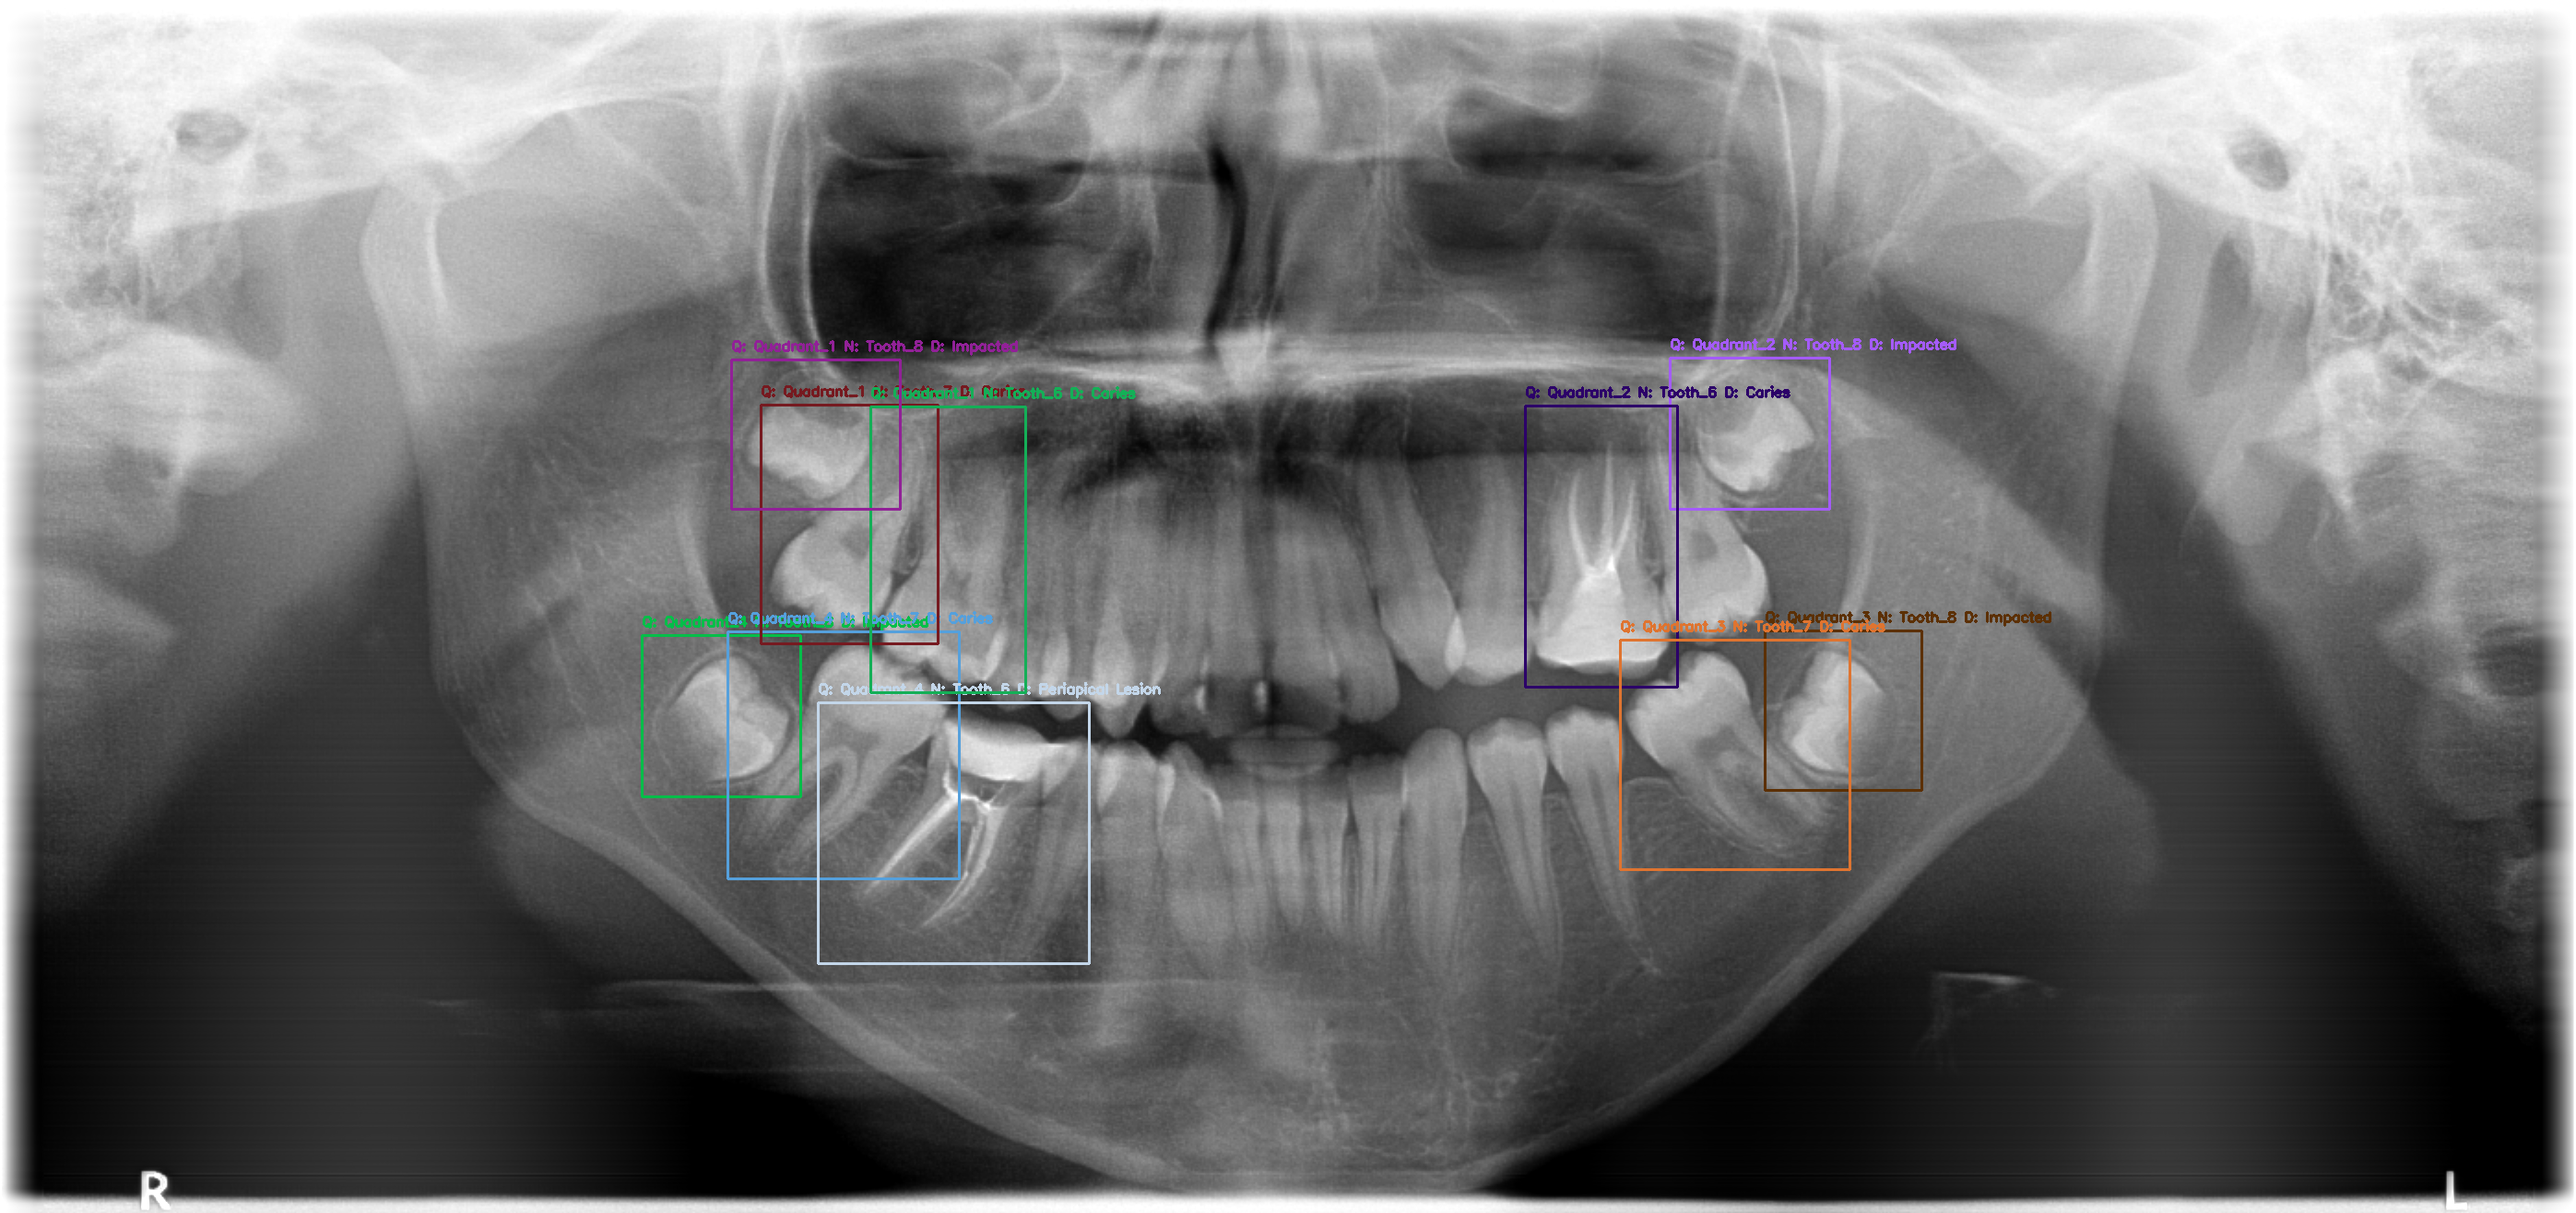
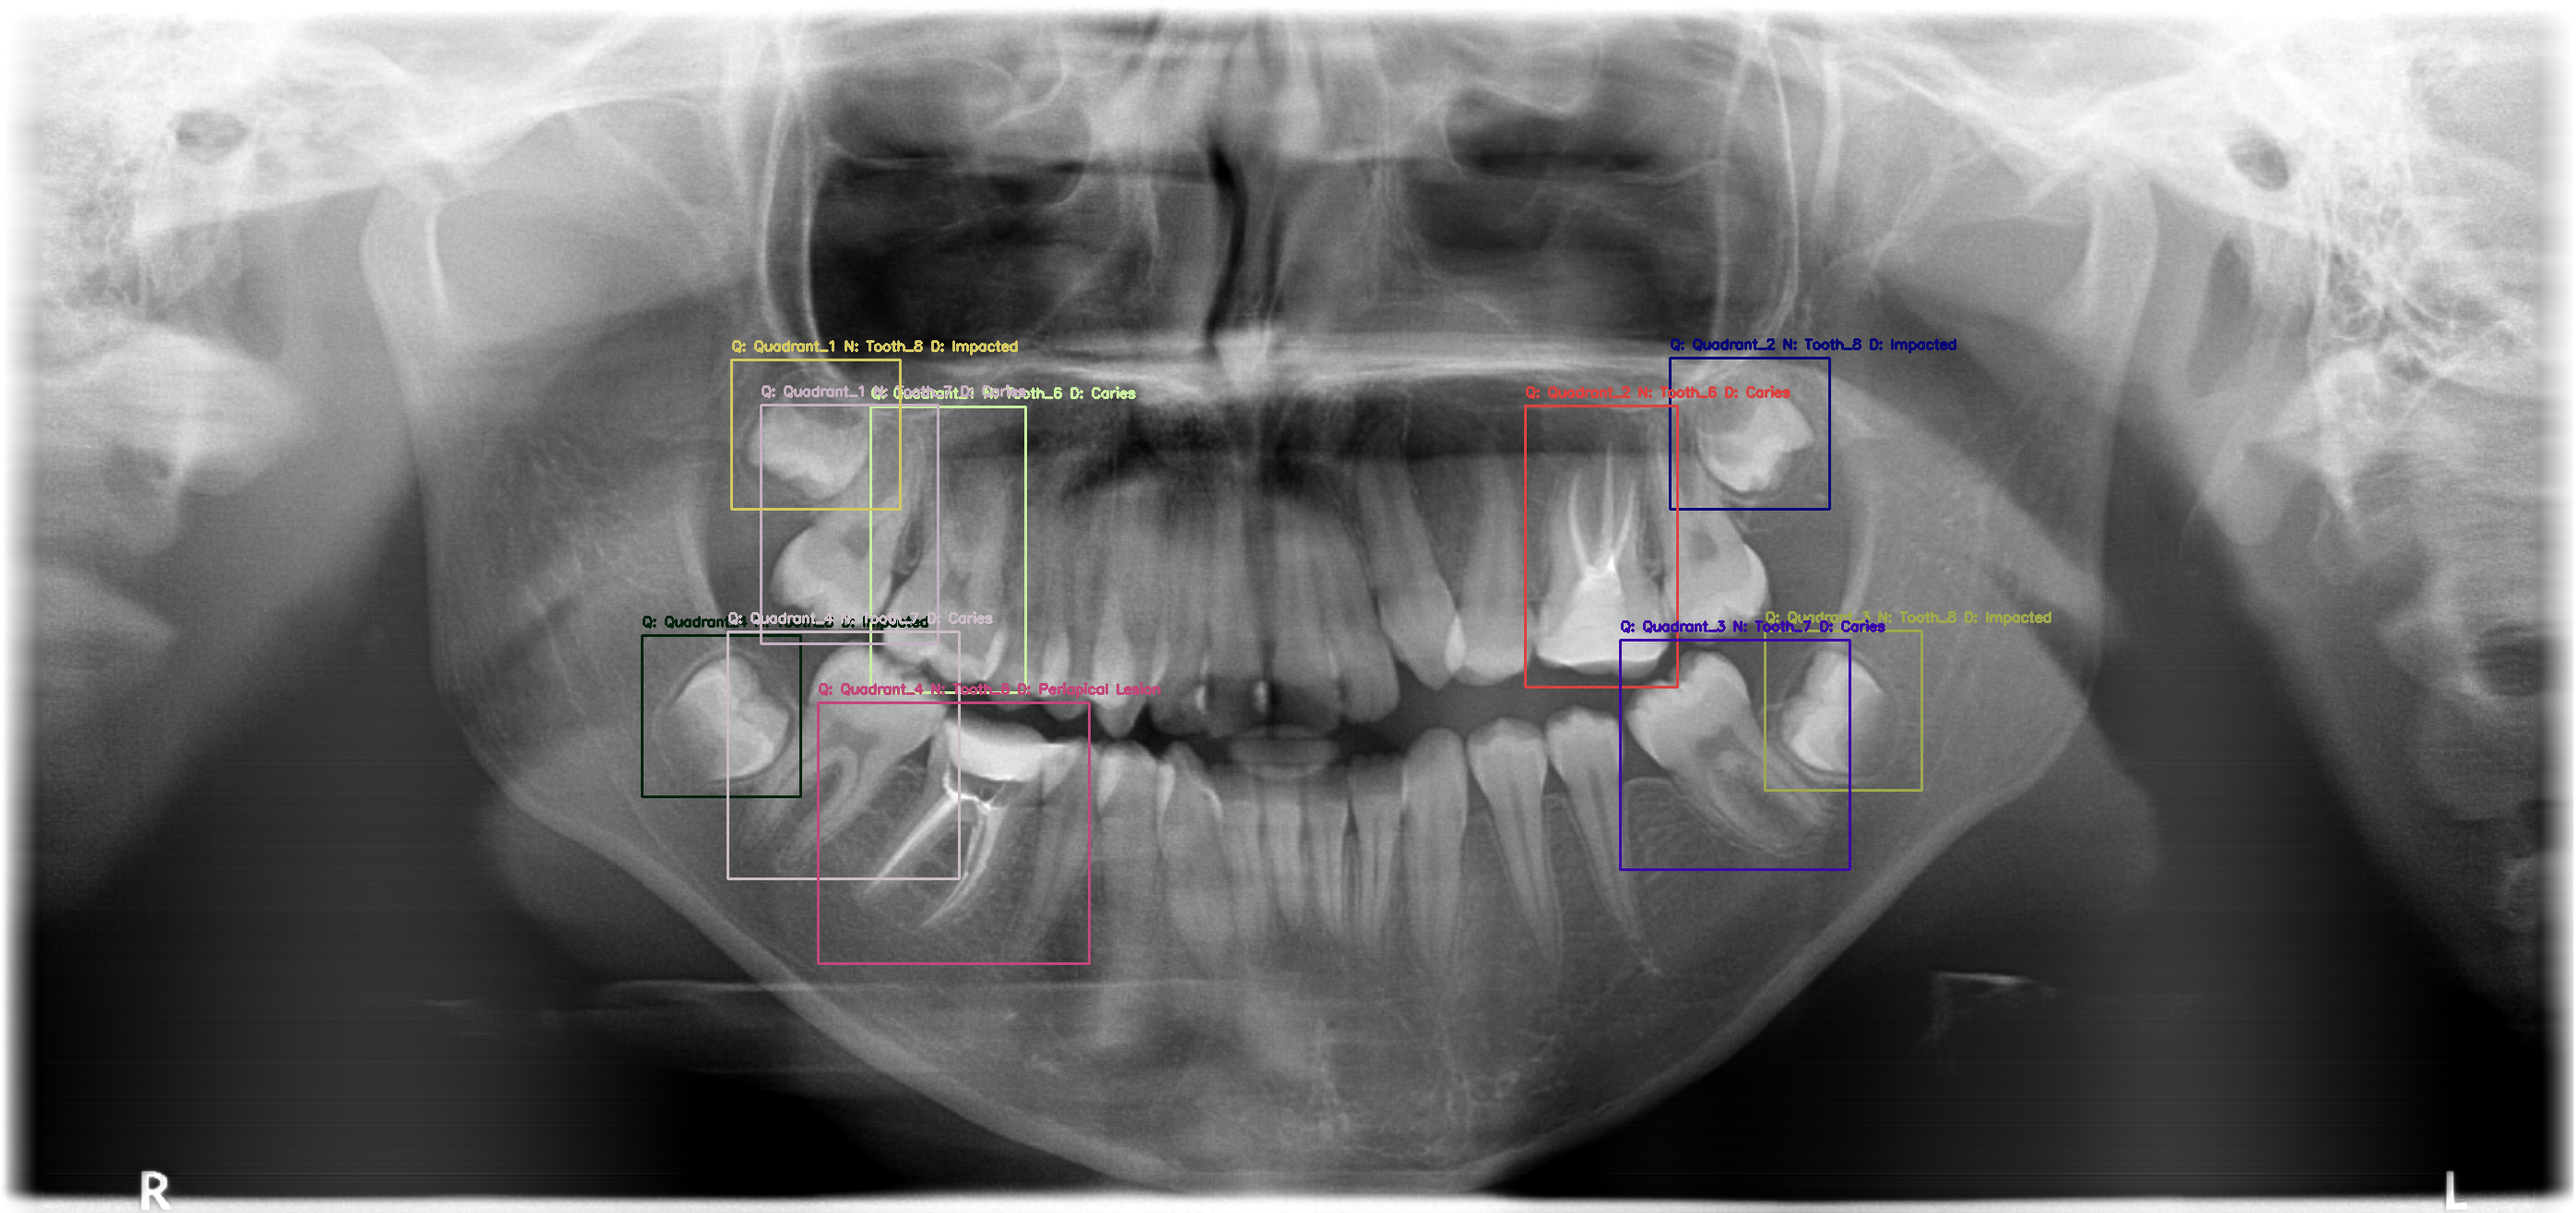
Modularized the code. Changed main.py to inference.py

diff --git a/inference.py b/inference.py
@@ -1,0 +1,85 @@
+# inference.py
+import torch
+import os
+from pathlib import Path
+from ultralytics import YOLO
+import cv2
+import random
+
+class DentalInference:
+    def __init__(self):
+        self.models = {
+            "disease": "runs/detect/quadrant_enumeration_disease_train/weights/best.pt",
+            "enumeration": "runs/detect/quadrant_enumeration_train/weights/best.pt",
+            "quadrant": "runs/detect/quadrant_train/weights/best.pt",
+        }
+        self.yolo_models = {name: YOLO(path) for name, path in self.models.items()}
+
+    def calculate_iou(self, box1, box2):
+        x1 = max(box1[0], box2[0])
+        y1 = max(box1[1], box2[1])
+        x2 = min(box1[2], box2[2])
+        y2 = min(box1[3], box2[3])
+        inter_area = max(0, x2 - x1) * max(0, y2 - y1)
+        box1_area = (box1[2] - box1[0]) * (box1[3] - box1[1])
+        box2_area = (box2[2] - box2[0]) * (box2[3] - box2[1])
+        return inter_area / (box1_area + box2_area - inter_area)
+
+    def get_random_color(self):
+        return tuple(random.randint(0, 255) for _ in range(3))
+
+    def predict(self, image_np):
+        detections = []
+        img = image_np.copy()
+        h, w = img.shape[:2]
+
+        temp_path = "temp.jpg"
+        cv2.imwrite(temp_path, img)
+
+        disease_results = self.yolo_models["disease"](temp_path)[0]
+        quadrant_results = self.yolo_models["quadrant"](temp_path)[0]
+        enumeration_results = self.yolo_models["enumeration"](temp_path)[0]
+
+        quadrant_boxes = [box.xyxy[0].tolist() for box in quadrant_results.boxes]
+        quadrant_labels = [self.yolo_models["quadrant"].names[int(cls)] for cls in quadrant_results.boxes.cls]
+
+        enumeration_boxes = [box.xyxy[0].tolist() for box in enumeration_results.boxes]
+        enumeration_labels = [self.yolo_models["enumeration"].names[int(cls)] for cls in enumeration_results.boxes.cls]
+
+        for box, cls in zip(disease_results.boxes.xyxy, disease_results.boxes.cls):
+            x1, y1, x2, y2 = map(int, box[:4])
+            disease_label = self.yolo_models["disease"].names[int(cls)]
+
+            best_quadrant_label = "?"
+            best_enumeration_label = "?"
+            max_iou_quadrant = 0
+            max_iou_enumeration = 0
+
+            for q_box, q_label in zip(quadrant_boxes, quadrant_labels):
+                iou = self.calculate_iou([x1, y1, x2, y2], q_box)
+                if iou > max_iou_quadrant:
+                    max_iou_quadrant = iou
+                    best_quadrant_label = q_label
+
+            for e_box, e_label in zip(enumeration_boxes, enumeration_labels):
+                iou = self.calculate_iou([x1, y1, x2, y2], e_box)
+                if iou > max_iou_enumeration:
+                    max_iou_enumeration = iou
+                    best_enumeration_label = e_label
+
+            # Clean label format
+            quadrant_clean = best_quadrant_label.replace("Quadrant_", "")
+            tooth_clean = best_enumeration_label.replace("Tooth_", "")
+            label = f"Quadrant {quadrant_clean} | Tooth {tooth_clean} | {disease_label}"
+
+            detections.append((x1, y1, x2, y2, label))
+
+        box_colors = [self.get_random_color() for _ in detections]
+        result_labels = []
+
+        for (x1, y1, x2, y2, label), color in zip(detections, box_colors):
+            result_labels.append(label)
+            cv2.rectangle(img, (x1, y1), (x2, y2), color, 2)
+            cv2.putText(img, label, (x1, y1 - 10), cv2.FONT_HERSHEY_SIMPLEX, 0.5, color, 2)
+
+        return img, "\n".join(result_labels)

diff --git a/app.py b/app.py
@@ -1,27 +1,14 @@
+# app.py
 import gradio as gr
-import cv2
-import numpy as np
+from inference import DentalInference
 
-# Placeholder function for YOLO prediction
-def yolo_predict(image):
-    # Replace this with your YOLO model inference code
-    # For demonstration, we'll just draw a bounding box and label on the image
-    output_image = image.copy()
-    cv2.rectangle(output_image, (50, 50), (200, 200), (0, 255, 0), 2)
-    cv2.putText(output_image, "Prediction", (50, 40), cv2.FONT_HERSHEY_SIMPLEX, 1, (0, 255, 0), 2)
-    return output_image
+# Instantiate the inference class
+inference_model = DentalInference()
 
-# Gradio interface function
 def process_xray(patient_name, xray_image, comments=""):
-    # Perform YOLO prediction on the X-ray image
-    output_image = yolo_predict(xray_image)
-    
-    # Display the patient name and comments
-    result = f"Patient: {patient_name}\nComments: {comments}"
-    
-    return output_image, result
+    labeled_image, result_text = inference_model.predict(xray_image)
+    return labeled_image, result_text
 
-# Gradio interface
 interface = gr.Interface(
     fn=process_xray,
     inputs=[
@@ -33,9 +20,8 @@ interface = gr.Interface(
         gr.Image(label="Labeled X-ray"),
         gr.Textbox(label="Result")
     ],
-    title="X-ray Analysis with YOLO",
-    description="Upload an X-ray image, and the YOLO model will label it. Add comments to indicate correct/incorrect predictions."
+    title="Dental X-ray Analysis",
+    description="Upload a dental X-ray to detect teeth, quadrants, and diseases."
 )
 
-# Launch the interface
 interface.launch()
